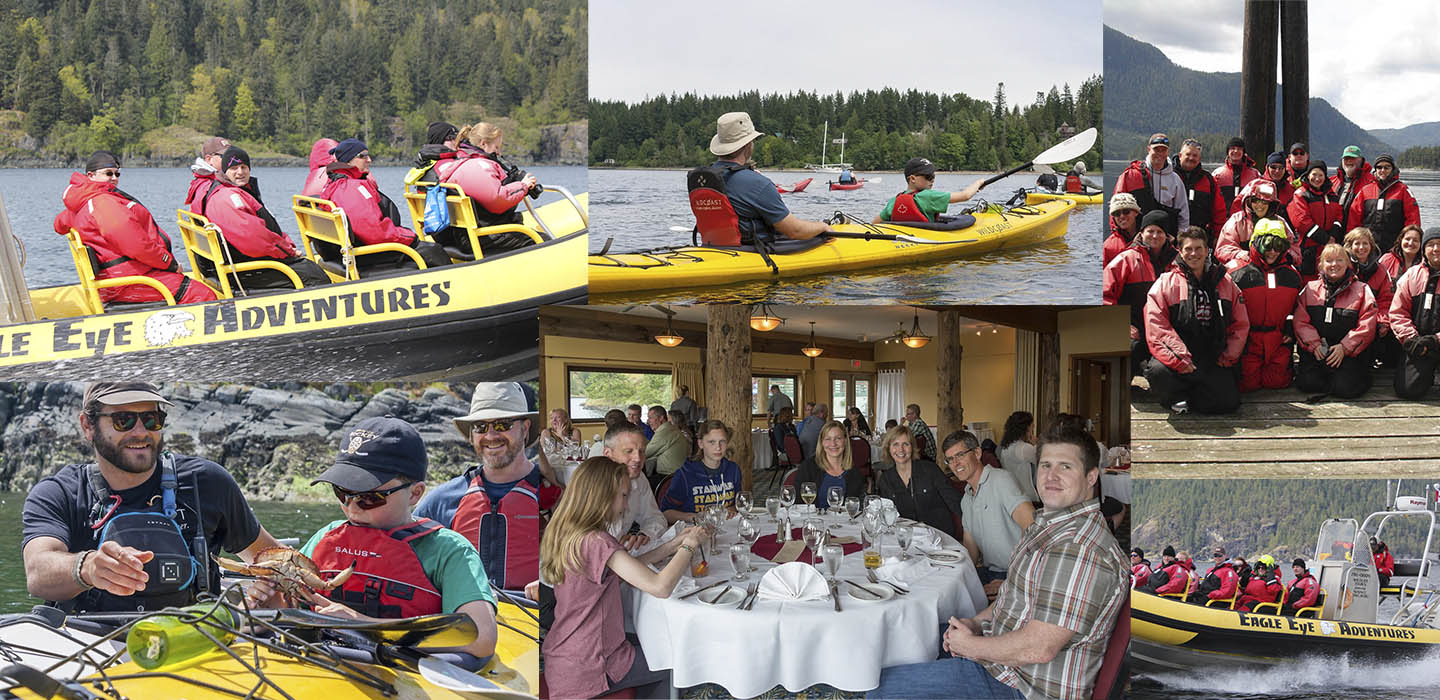
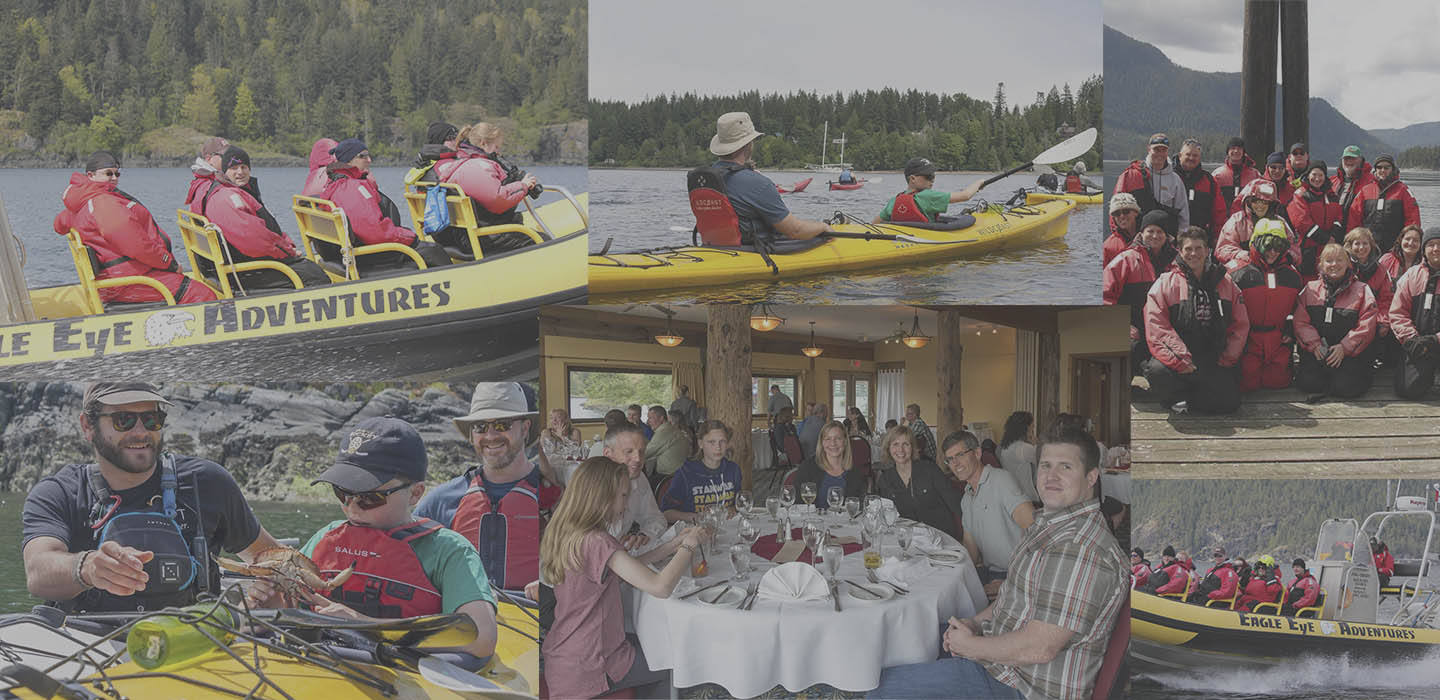
Update backgrounds

diff --git a/src/assets/css/_sass/pages/_projects.scss b/src/assets/css/_sass/pages/_projects.scss
@@ -1,6 +1,6 @@
 .page-projects main {
   .hero {
-    background-image: url(../../assets/images/bainbridge-bg.jpg);
+    background-image: url(../../assets/images/projects-bg.jpg);
   }
 }
 

diff --git a/src/assets/css/_sass/pages/_services.scss b/src/assets/css/_sass/pages/_services.scss
@@ -1,6 +1,6 @@
 .page-services main {
   .hero {
-    background-image: url(../../assets/images/bainbridge-bg.jpg);
+    background-image: url(../../assets/images/services-bg.jpg);
   }
 }
 
